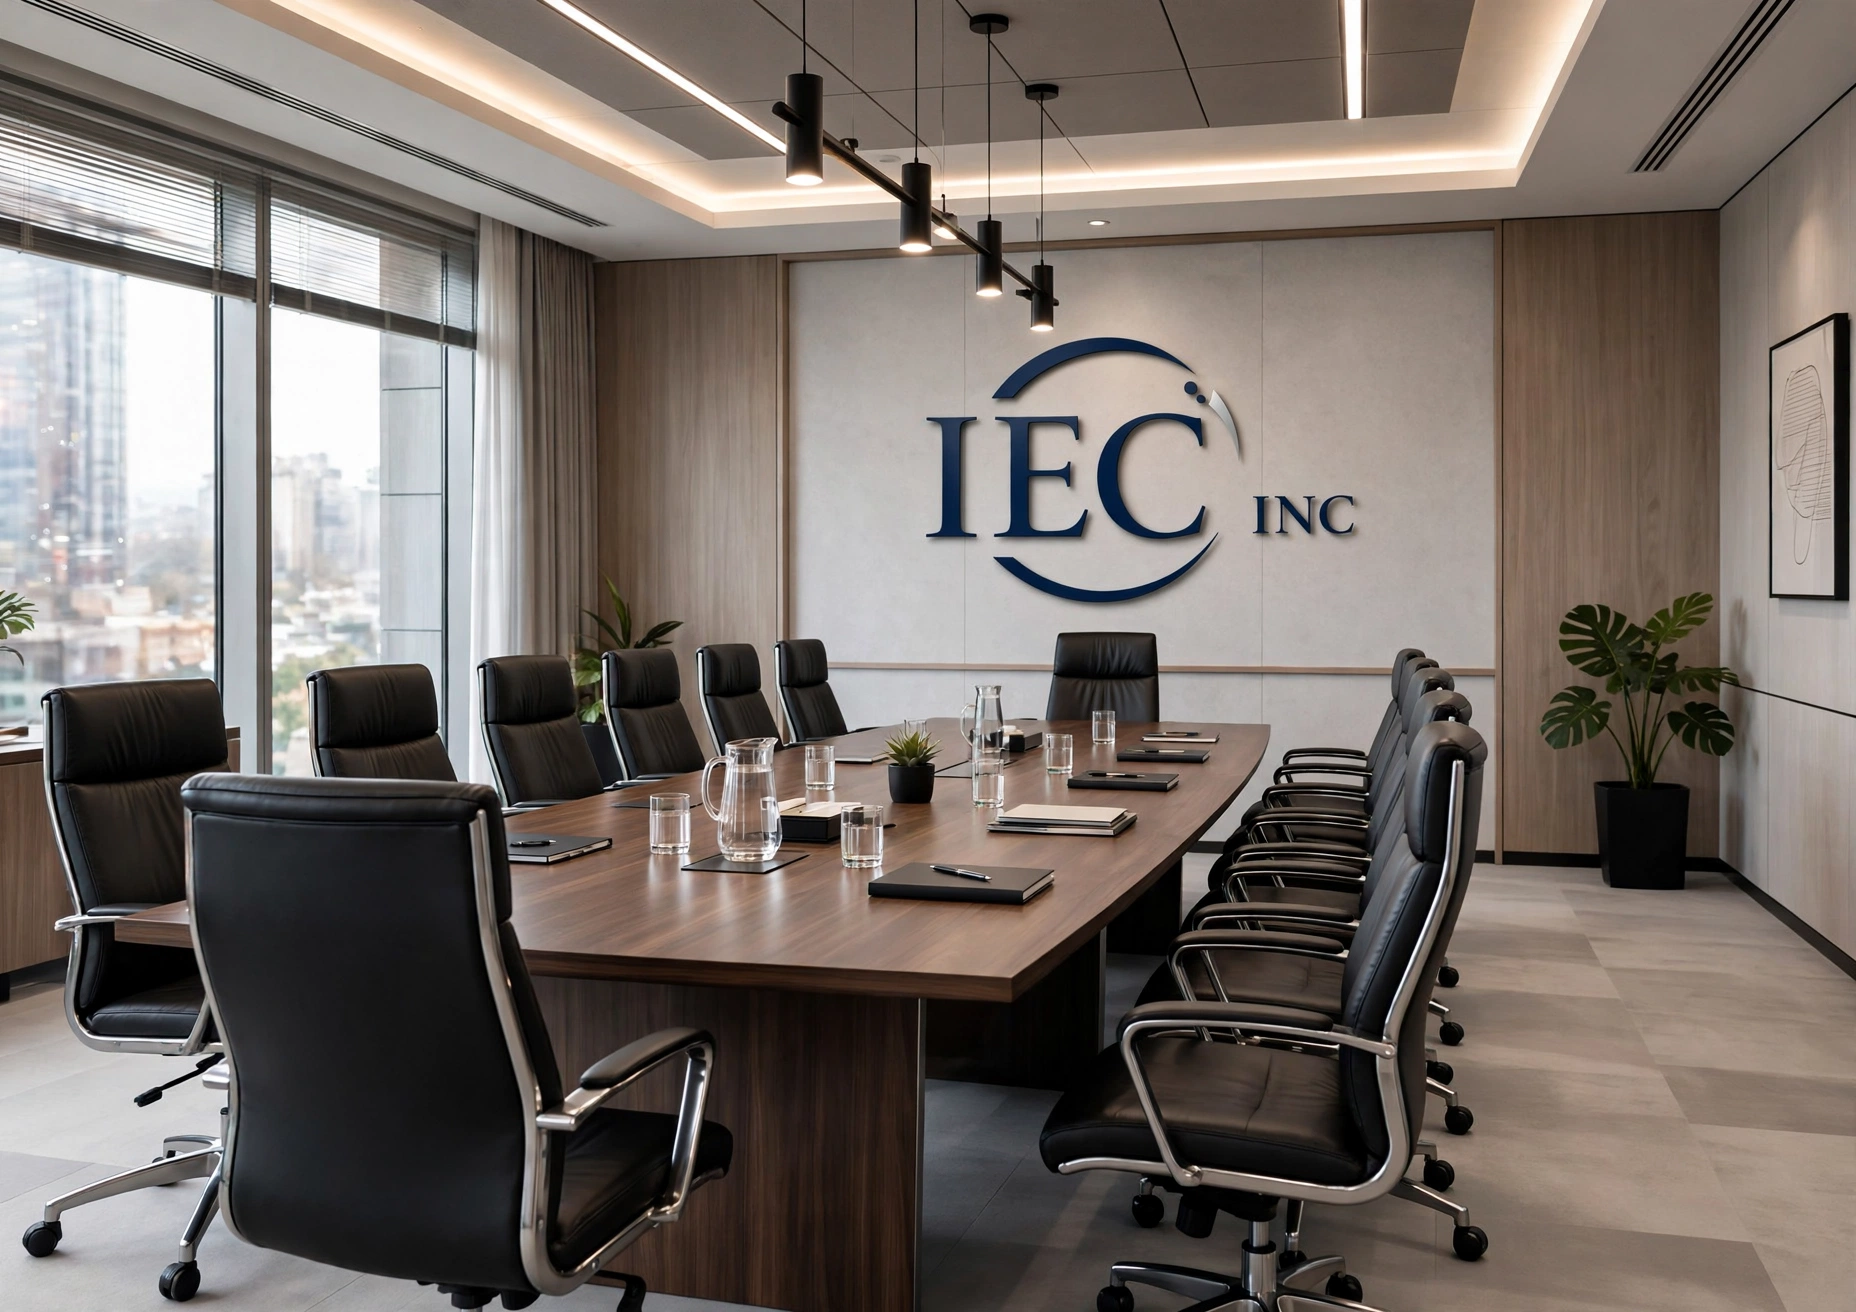
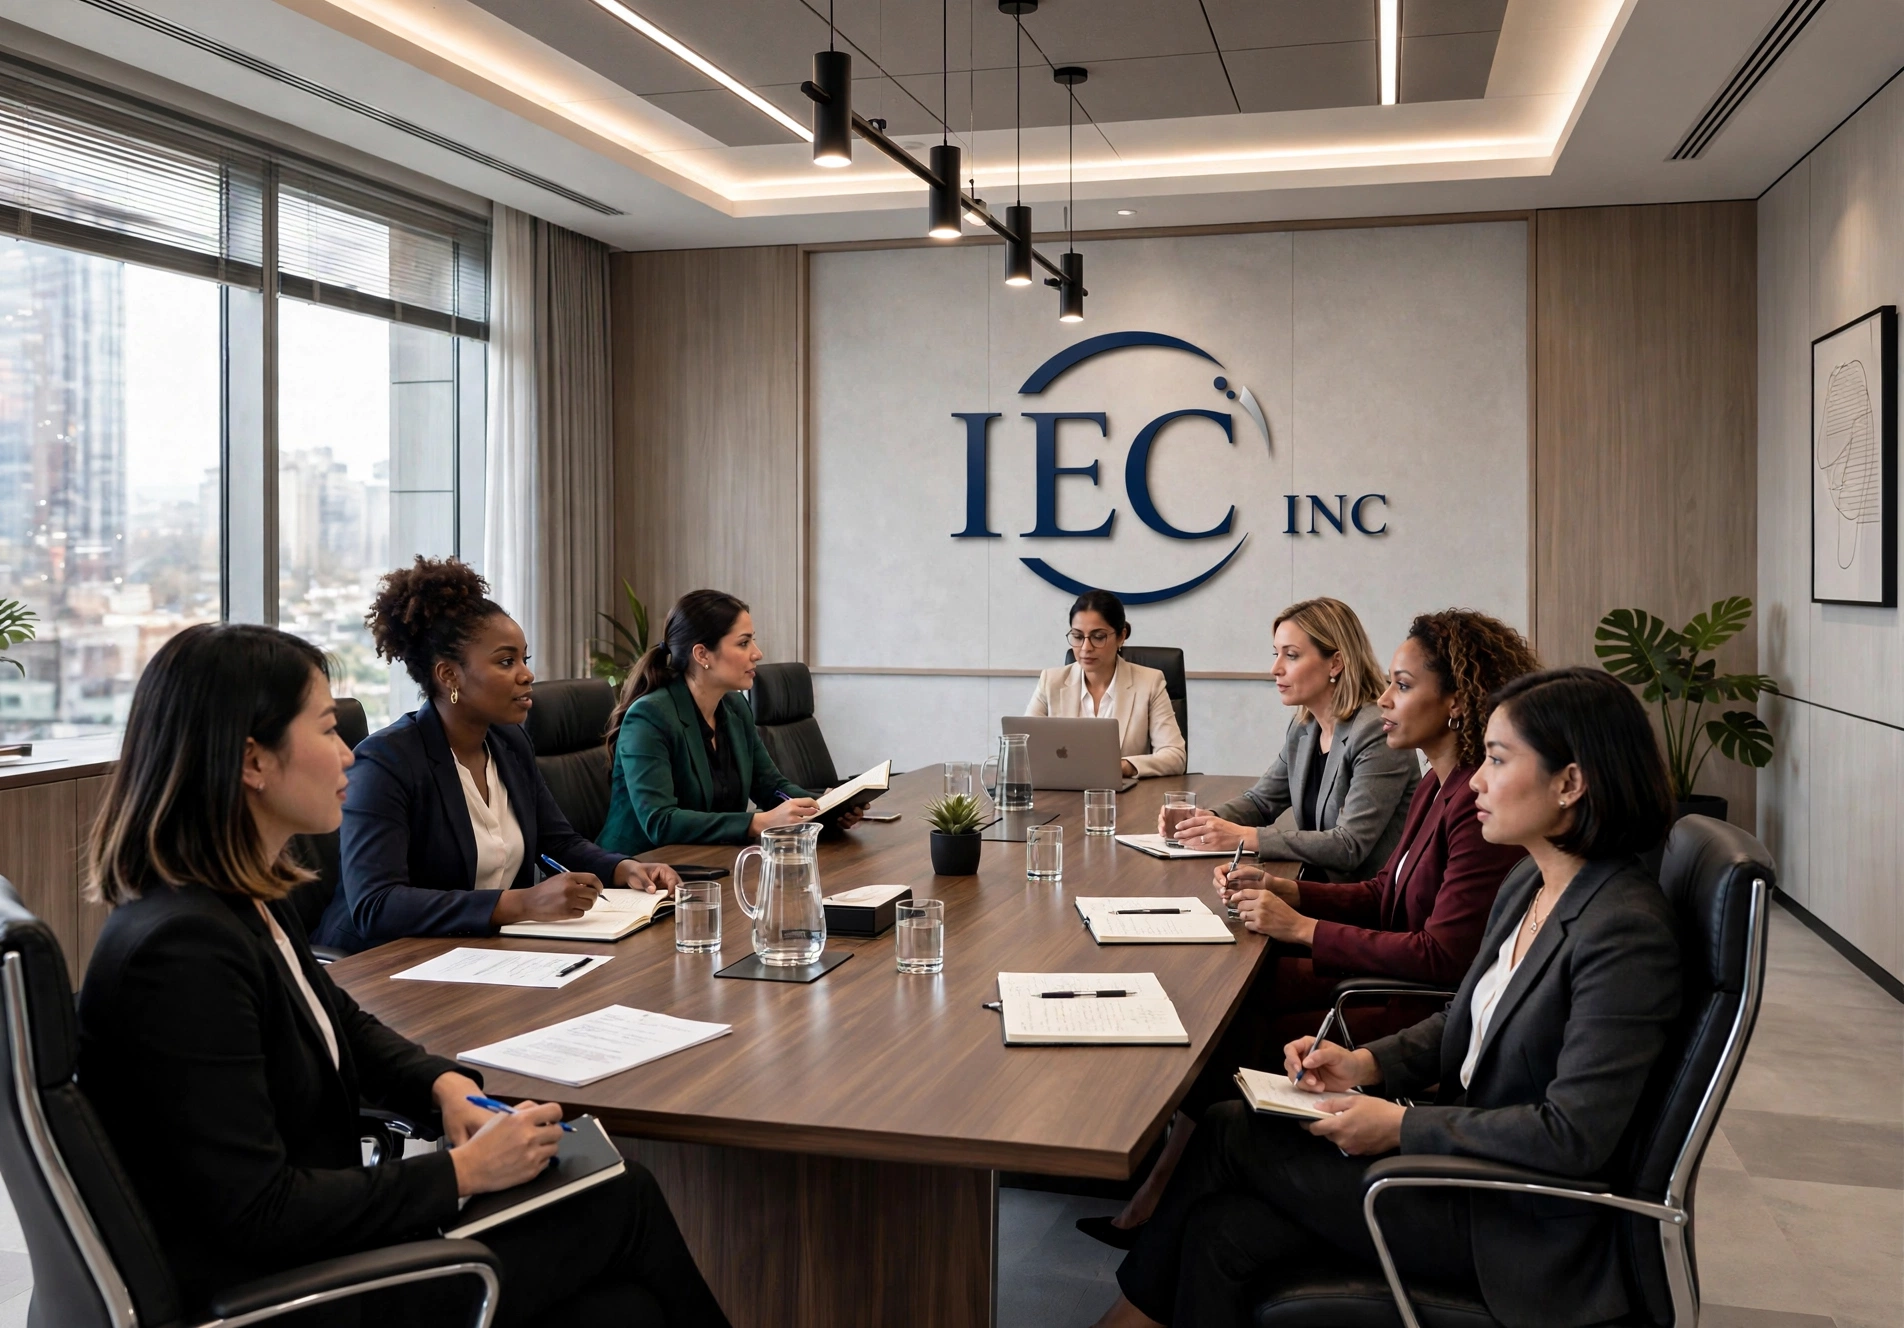
Meeting Room: live team photo in boardroom, cartoon seat overlay removed

diff --git a/desk/meeting-room.html b/desk/meeting-room.html
@@ -71,8 +71,8 @@
         </div>
       </div>
 
-      <div class="table-scene" id="table-scene" aria-label="Boardroom table"></div>
-      <p class="hint" style="margin-top:10px">Tap a chair to open that member's office.</p>
+      <div class="table-scene" id="table-scene" aria-label="IEC boardroom — live meeting"></div>
+      <p class="hint" style="margin-top:10px"><span class="live"><i></i></span> Live from the IEC boardroom.</p>
     </div>
 
     <footer>© 2026 International Empire Consultants, Inc. · IEC Suite</footer>
@@ -121,33 +121,9 @@ function seated(){
 function renderBoardroom(){
   const seats = seated();
   const n = seats.length;
-  const scene = $('table-scene');
-  const rx = 41, ry = 34;
-  scene.classList.toggle('many', n > 10);
-  const chairs = seats.map((s, i) => {
-    const a = -Math.PI / 2 + i * (2 * Math.PI / n);
-    const x = (50 + rx * Math.cos(a)).toFixed(2), y = (50 + ry * Math.sin(a)).toFixed(2);
-    return `<button class="seat${s.boss ? ' boss' : ''}" style="left:${x}%;top:${y}%" data-seat="${i}" aria-label="${esc(s.name)}'s chair">
-      <span class="seat-avatar" style="--c:${seatColor(s.name)}">${esc(initials(s.name))}</span>
-      <span class="seat-chair"></span>
-      <span class="seat-plate">${esc(s.name)}</span>
-    </button>`;
-  }).join('');
-  scene.innerHTML = `
-    <div class="round-table"><div class="table-emblem">IEC</div></div>
-    ${chairs}`;
-  $('attendee-count').textContent = n + ' seated';
+  $('attendee-count').textContent = n + ' in the room';
   $('wall-attendees').innerHTML = seats.map(s =>
     `<li><i style="background:${seatColor(s.name)}"></i><span>${esc(s.name)}</span></li>`).join('');
-}
-
-function openSeat(i){
-  const s = seated()[+i]; if(!s) return;
-  openDrawer(`
-    <div class="drawer-avatar" style="--c:${seatColor(s.name)}">${esc(initials(s.name))}</div>
-    <span class="tag gold">${s.boss ? 'Chair' : 'Around the table'}</span>
-    <h2 style="margin:14px 0 8px;font-family:'Space Grotesk'">${esc(s.name)}</h2>
-    <p style="color:var(--dim);font-size:14.5px">${esc(s.role || '')}</p>`);
 }
 
 document.querySelectorAll('.mode-toggle button').forEach(b =>
@@ -157,11 +133,6 @@ document.querySelectorAll('.mode-toggle button').forEach(b =>
     MODE = b.dataset.mode;
     renderBoardroom();
   }));
-
-$('table-scene').addEventListener('click', e => {
-  const c = e.target.closest('[data-seat]'); if(!c) return;
-  openSeat(c.dataset.seat);
-});
 
 (async function(){
   try{
